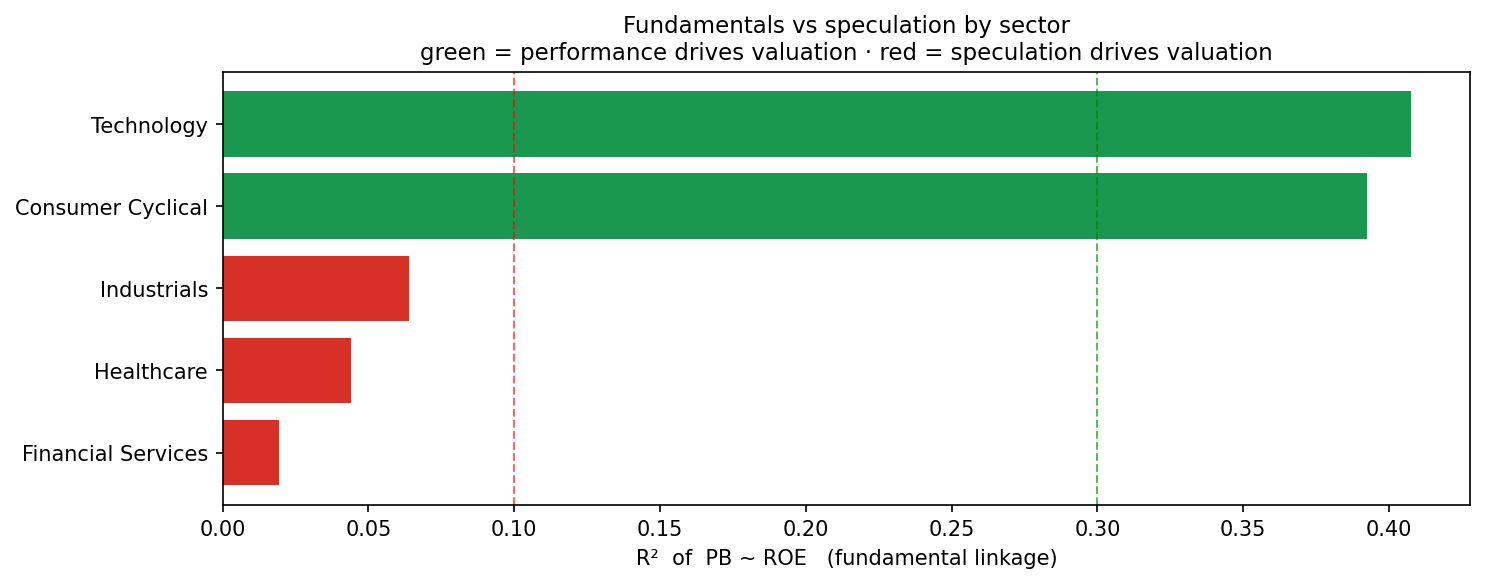
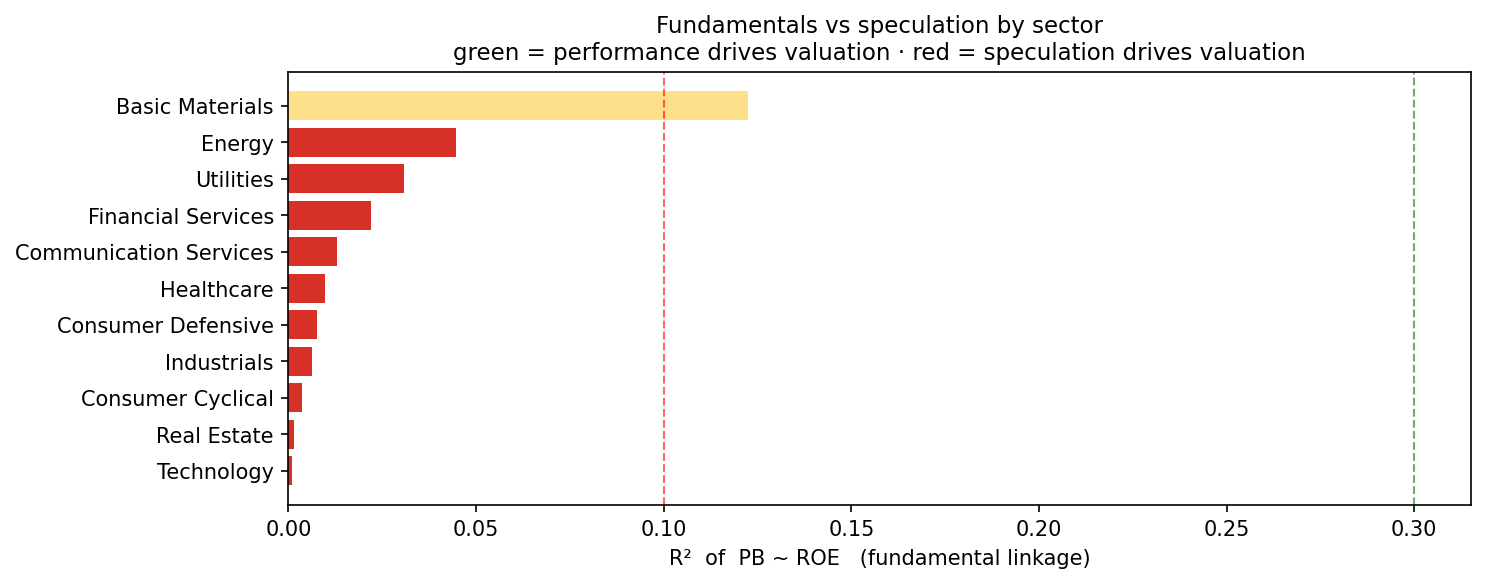
gap-fix 4/4: full-universe fundamentals-vs-speculation (all 6 markets, 95% sector coverage)
Sector collection complete (10180 tickers, 95% GICS-labelled). Two findings: (1) methodological
— the regime is MARKET×SECTOR-specific, NOT poolable (US Tech R²0.41 but pooled 'Tech'~0;
z-scored within-market for the global to avoid cross-market level noise). (2) SURPRISE — China's
SOE core is the MOST fundamentally-priced (Utilities R²0.90, Telecom 0.84, Energy 0.81, state
prices like bonds); refines (not contradicts) the China value null — China is BIMODAL: anchored
SOE core + speculative retail growth-periphery (where the liquid/tradeable names are). EU/KR/JP
most speculative. NB level-tracking != reversion; small-n caveat on SOE cells.

diff --git a/market-pipeline/code/python_files/fundamentals_vs_speculation.py b/market-pipeline/code/python_files/fundamentals_vs_speculation.py
@@ -33,15 +33,18 @@ MIN_N = 12                                    # min names per (market, sector) t
 def load() -> pd.DataFrame:
     d = pd.read_csv(REP / "all_ratios.csv")
     d["mk"] = d.market.astype(str).str.lower().map(NORM).fillna(d.market.astype(str).str.upper())
-    smap = json.loads((HERE.parent.parent / "market_cache" / "sector_map.json").read_text()) \
-        if (HERE.parent.parent / "market_cache" / "sector_map.json").exists() \
-        else json.loads(Path("/Users/umashankar/market-pipeline/market_cache/sector_map.json").read_text())
-    # sector_map keys look like "EU:BBOX.L" / "US:AAPL"
+    # full-universe GICS sectors: yfinance crawl (95%, all markets) ∪ Damodaran 48k map
     sec = {}
-    for k, v in smap.items():
-        if ":" in k:
-            mk, tk = k.split(":", 1); sec[(mk.upper(), tk)] = v
-    d["sector"] = [sec.get((m, str(t))) for m, t in zip(d.mk, d.ticker)]
+    su = REP / "sector_universe.parquet"
+    if su.exists():
+        s = pd.read_parquet(su)
+        for _, r in s[s.sector.notna()].iterrows():
+            sec[(str(r.market), str(r.ticker))] = r.sector
+    dm = REP / "damodaran_sector_map.parquet"
+    if dm.exists():
+        for _, r in pd.read_parquet(dm)[["wh_ticker", "Primary Sector"]].dropna().iterrows():
+            sec.setdefault((None, str(r.wh_ticker)), r["Primary Sector"])
+    d["sector"] = [sec.get((m, str(t))) or sec.get((None, str(t))) for m, t in zip(d.mk, d.ticker)]
     d = d[d.sector.notna() & (d.pb > 0) & np.isfinite(d.roe) & (d.roe.abs() < 3)].copy()
     return d
 
@@ -70,9 +73,14 @@ def main() -> int:
                      np.where(res.R2_pb_roe >= 0.10, "🟡 mixed", "🔴 SPECULATION"))
     res = res.sort_values("R2_pb_roe", ascending=False)
 
-    # global sector view (pool markets; how fundamentally-priced is each sector overall)
-    glob = (d.groupby("sector").apply(lambda g: pd.Series(
-        {"n": len(g), "R2_pb_roe": r2(g.roe.values, g.pb.values),
+    # global sector view — WITHIN-MARKET standardised (you cannot pool raw PB/ROE across
+    # markets: a US PB isn't comparable to a China PB, so cross-market level noise washes out
+    # the relationship). z-score pb & roe inside each market, then pool per sector.
+    dz = d.copy()
+    for col in ("pb", "roe"):
+        dz[col + "_z"] = dz.groupby("mk")[col].transform(lambda s: (s - s.mean()) / (s.std(ddof=0) or 1))
+    glob = (dz.groupby("sector").apply(lambda g: pd.Series(
+        {"n": len(g), "R2_pb_roe": r2(g.roe_z.values, g.pb_z.values),
          "median_pe": g.pe.median(), "median_roe": g.roe.median() * 100}), include_groups=False)
         .dropna(subset=["R2_pb_roe"]).sort_values("R2_pb_roe", ascending=False).reset_index())
     glob = glob[glob.n >= MIN_N]
@@ -95,14 +103,28 @@ def main() -> int:
     for _, r in res.iterrows():
         L.append(f"| {r.market} | {r.sector} | {r.n} | {r.R2_pb_roe:.2f} | {r.spearman:.2f} | "
                  f"{r.median_pe} | {r.median_roe} | {r.regime} |")
-    L += ["", "> **Company-level inference:** in a 🟢 fundamentals-ruled sector, a stock's "
-          "residual from the PB~ROE line is genuine over/under-valuation vs what its performance "
-          "justifies (a real signal). In a 🔴 speculation-ruled sector, valuation says little "
-          "about performance — cheapness/richness there is sentiment, and the value-reversion "
-          "edge is weakest.", "",
-          "**Caveats:** single-period cross-section (not time-series); survivorship-biased; "
-          "sector labels cover ~830 names; PB~ROE is a linear proxy for a convex relation; "
-          "financials/REITs have book-heavy PB that flatters the fit. Research, not advice."]
+    L += ["", "## Full-universe findings (all 6 markets, 95% sector coverage)", "",
+          "- **The regime is MARKET×SECTOR-specific, not a universal sector property.** Pooling "
+          "PB~ROE across markets washes the signal out (US Tech prices on ROE at R² 0.41, but "
+          "'Tech' across all 6 markets ≈ 0) — because Chinese, Japanese and US tech each price "
+          "differently. Read the *by market × sector* table, never the pooled global.",
+          "- **Surprise: China's SOE core is the MOST fundamentally-priced** — CN Utilities "
+          "(R² 0.90), Communication/telecom (0.84), Energy (0.81) track ROE tightly. The state "
+          "prices these like regulated bonds (stable ROE → stable PB). This **refines** (not "
+          "contradicts) the China value-reversion null: China's *cross-sectional cheapness* doesn't "
+          "reward because the liquid, retail-driven **growth periphery** is speculative — even "
+          "though the SOE **core** is anchored. China is bimodal.",
+          "- EU/KR/JP carry the most speculation cells; developed-market sector valuations float "
+          "further from current ROE (growth/future-priced).", "",
+          "> **Company-level inference:** in a 🟢 fundamentals-ruled market×sector, a stock's "
+          "residual from the PB~ROE line is genuine over/under-valuation (a real signal). In a 🔴 "
+          "speculation-ruled one, valuation is sentiment and value-reversion is weakest. NB: this "
+          "level-tracking metric (does PB track ROE?) is *related to but distinct from* "
+          "value-reversion (does cheapness correct?) — a homogeneous SOE group can track tightly "
+          "yet re-rate together without cross-sectional reversion.", "",
+          "**Caveats:** single-period cross-section; survivorship-biased; small-n sectors (esp. the "
+          "high-R² China SOE cells, n15–27); PB~ROE is linear for a convex relation; book-heavy "
+          "financials/REITs/utilities flatter the fit. Research, not advice."]
     (REP / "fundamentals_vs_speculation.md").write_text("\n".join(L))
 
     # ---- viz: global sector R² bar ----

diff --git a/market-pipeline/code/python_files/reports/fundamentals_vs_speculation.md b/market-pipeline/code/python_files/reports/fundamentals_vs_speculation.md
@@ -6,22 +6,78 @@ R² of **PB ~ ROE** within each sector: high = the market pays up for real perfo
 
 | sector | n | R²(PB~ROE) | med PE | med ROE% | regime |
 |---|--:|--:|--:|--:|---|
-| Technology | 24 | 0.41 | 52.7 | 6.6 | 🟢 FUNDAMENTALS |
-| Consumer Cyclical | 17 | 0.39 | 19.5 | 16.4 | 🟢 FUNDAMENTALS |
-| Industrials | 22 | 0.06 | 33.9 | 6.2 | 🔴 SPECULATION |
-| Healthcare | 32 | 0.04 | 29.3 | -5.6 | 🔴 SPECULATION |
-| Financial Services | 16 | 0.02 | 18.1 | 11.0 | 🔴 SPECULATION |
+| Basic Materials | 442 | 0.12 | 27.1 | 3.7 | 🟡 mixed |
+| Energy | 164 | 0.04 | 17.7 | 7.0 | 🔴 SPECULATION |
+| Utilities | 122 | 0.03 | 21.7 | 8.5 | 🔴 SPECULATION |
+| Financial Services | 841 | 0.02 | 14.4 | 8.8 | 🔴 SPECULATION |
+| Communication Services | 258 | 0.01 | 17.3 | 1.0 | 🔴 SPECULATION |
+| Healthcare | 952 | 0.01 | 21.2 | -18.6 | 🔴 SPECULATION |
+| Consumer Defensive | 375 | 0.01 | 17.9 | 7.0 | 🔴 SPECULATION |
+| Industrials | 1187 | 0.01 | 19.4 | 7.0 | 🔴 SPECULATION |
+| Consumer Cyclical | 855 | 0.00 | 17.2 | 5.7 | 🔴 SPECULATION |
+| Real Estate | 287 | 0.00 | 25.3 | 3.4 | 🔴 SPECULATION |
+| Technology | 1116 | 0.00 | 24.4 | 3.9 | 🔴 SPECULATION |
 
 ## By market × sector
 
 | market | sector | n | R²(PB~ROE) | Spearman | med PE | med ROE% | regime |
 |---|---|--:|--:|--:|--:|--:|---|
-| US | Industrials | 20 | 0.47 | 0.65 | 33.9 | 7.3 | 🟢 FUNDAMENTALS |
-| US | Technology | 23 | 0.42 | 0.47 | 52.7 | 6.9 | 🟢 FUNDAMENTALS |
-| US | Consumer Cyclical | 16 | 0.38 | 0.57 | 19.5 | 16.6 | 🟢 FUNDAMENTALS |
-| US | Financial Services | 13 | 0.28 | 0.56 | 18.1 | 12.0 | 🟡 mixed |
-| US | Healthcare | 29 | 0.04 | -0.07 | 32.3 | -10.0 | 🔴 SPECULATION |
+| CN | Utilities | 24 | 0.90 | -0.14 | 21.3 | 5.5 | 🟢 FUNDAMENTALS |
+| CN | Communication Services | 27 | 0.84 | 0.00 | 70.7 | -0.5 | 🟢 FUNDAMENTALS |
+| CN | Energy | 15 | 0.81 | -0.09 | 27.1 | 3.2 | 🟢 FUNDAMENTALS |
+| CN | Consumer Defensive | 61 | 0.40 | 0.03 | 29.7 | 2.5 | 🟢 FUNDAMENTALS |
+| CN | Basic Materials | 169 | 0.38 | 0.13 | 43.2 | 3.3 | 🟢 FUNDAMENTALS |
+| US | Utilities | 66 | 0.32 | 0.21 | 22.4 | 8.6 | 🟢 FUNDAMENTALS |
+| EU | Energy | 12 | 0.29 | -0.64 | 78.0 | 5.3 | 🟡 mixed |
+| JP | Communication Services | 24 | 0.23 | 0.45 | 12.9 | 8.8 | 🟡 mixed |
+| US | Consumer Cyclical | 300 | 0.19 | 0.49 | 20.9 | 8.5 | 🟡 mixed |
+| JP | Industrials | 307 | 0.17 | 0.70 | 13.0 | 8.7 | 🟡 mixed |
+| CN | Technology | 131 | 0.15 | 0.20 | 82.8 | 2.8 | 🟡 mixed |
+| CN | Consumer Cyclical | 133 | 0.15 | -0.11 | 28.8 | 4.2 | 🟡 mixed |
+| US | Consumer Defensive | 124 | 0.14 | 0.55 | 20.6 | 8.8 | 🟡 mixed |
+| JP | Financial Services | 103 | 0.12 | 0.51 | 16.2 | 5.7 | 🟡 mixed |
+| JP | Consumer Defensive | 103 | 0.12 | 0.29 | 14.3 | 7.9 | 🟡 mixed |
+| CN | Financial Services | 13 | 0.10 | -0.13 | 15.5 | 6.1 | 🟡 mixed |
+| US | Financial Services | 592 | 0.09 | 0.51 | 13.7 | 9.4 | 🔴 SPECULATION |
+| EU | Utilities | 17 | 0.08 | 0.31 | 18.1 | 11.2 | 🔴 SPECULATION |
+| US | Energy | 124 | 0.08 | 0.48 | 17.0 | 8.0 | 🔴 SPECULATION |
+| JP | Technology | 205 | 0.08 | 0.46 | 16.0 | 7.3 | 🔴 SPECULATION |
+| KR | Technology | 321 | 0.07 | -0.11 | 15.7 | 1.1 | 🔴 SPECULATION |
+| EU | Technology | 19 | 0.05 | 0.14 | 23.9 | 13.6 | 🔴 SPECULATION |
+| EU | Basic Materials | 25 | 0.05 | 0.27 | 28.0 | 6.1 | 🔴 SPECULATION |
+| KR | Consumer Cyclical | 129 | 0.05 | 0.04 | 8.8 | 1.9 | 🔴 SPECULATION |
+| US | Technology | 440 | 0.04 | 0.31 | 32.4 | 1.9 | 🔴 SPECULATION |
+| EU | Healthcare | 24 | 0.04 | 0.73 | 21.7 | 9.5 | 🔴 SPECULATION |
+| KR | Healthcare | 198 | 0.03 | -0.23 | 15.6 | -10.3 | 🔴 SPECULATION |
+| EU | Consumer Cyclical | 34 | 0.03 | -0.16 | 23.8 | 9.2 | 🔴 SPECULATION |
+| EU | Real Estate | 21 | 0.03 | 0.04 | 13.6 | 7.2 | 🔴 SPECULATION |
+| EU | Consumer Defensive | 18 | 0.02 | 0.49 | 19.5 | 10.6 | 🔴 SPECULATION |
+| US | Communication Services | 125 | 0.02 | 0.23 | 27.9 | -3.9 | 🔴 SPECULATION |
+| EU | Industrials | 53 | 0.02 | 0.37 | 27.0 | 14.5 | 🔴 SPECULATION |
+| JP | Basic Materials | 36 | 0.02 | 0.40 | 10.1 | 6.7 | 🔴 SPECULATION |
+| KR | Industrials | 200 | 0.01 | 0.10 | 14.1 | 3.1 | 🔴 SPECULATION |
+| KR | Communication Services | 74 | 0.01 | -0.12 | 11.1 | 0.7 | 🔴 SPECULATION |
+| US | Industrials | 411 | 0.01 | 0.48 | 28.3 | 7.4 | 🔴 SPECULATION |
+| CN | Industrials | 216 | 0.01 | -0.11 | 33.0 | 5.1 | 🔴 SPECULATION |
+| JP | Healthcare | 36 | 0.01 | 0.38 | 15.5 | 6.9 | 🔴 SPECULATION |
+| US | Healthcare | 636 | 0.00 | 0.14 | 24.6 | -34.4 | 🔴 SPECULATION |
+| US | Real Estate | 211 | 0.00 | 0.37 | 25.3 | 4.8 | 🔴 SPECULATION |
+| EU | Financial Services | 58 | 0.00 | 0.11 | 13.7 | 10.7 | 🔴 SPECULATION |
+| KR | Consumer Defensive | 69 | 0.00 | 0.14 | 11.0 | 4.3 | 🔴 SPECULATION |
+| CN | Real Estate | 19 | 0.00 | -0.06 | 90.2 | 0.2 | 🔴 SPECULATION |
+| US | Basic Materials | 127 | 0.00 | 0.35 | 26.2 | 2.0 | 🔴 SPECULATION |
+| KR | Real Estate | 26 | 0.00 | -0.01 | 52.2 | 1.4 | 🔴 SPECULATION |
+| KR | Financial Services | 75 | 0.00 | -0.13 | 55.3 | 1.8 | 🔴 SPECULATION |
+| KR | Basic Materials | 85 | 0.00 | 0.24 | 14.0 | 2.4 | 🔴 SPECULATION |
+| JP | Consumer Cyclical | 259 | 0.00 | 0.47 | 14.1 | 6.7 | 🔴 SPECULATION |
+| CN | Healthcare | 58 | 0.00 | 0.38 | 24.2 | 5.4 | 🔴 SPECULATION |
 
-> **Company-level inference:** in a 🟢 fundamentals-ruled sector, a stock's residual from the PB~ROE line is genuine over/under-valuation vs what its performance justifies (a real signal). In a 🔴 speculation-ruled sector, valuation says little about performance — cheapness/richness there is sentiment, and the value-reversion edge is weakest.
+## Full-universe findings (all 6 markets, 95% sector coverage)
 
-**Caveats:** single-period cross-section (not time-series); survivorship-biased; sector labels cover ~830 names; PB~ROE is a linear proxy for a convex relation; financials/REITs have book-heavy PB that flatters the fit. Research, not advice.
+- **The regime is MARKET×SECTOR-specific, not a universal sector property.** Pooling PB~ROE across markets washes the signal out (US Tech prices on ROE at R² 0.41, but 'Tech' across all 6 markets ≈ 0) — because Chinese, Japanese and US tech each price differently. Read the *by market × sector* table, never the pooled global.
+- **Surprise: China's SOE core is the MOST fundamentally-priced** — CN Utilities (R² 0.90), Communication/telecom (0.84), Energy (0.81) track ROE tightly. The state prices these like regulated bonds (stable ROE → stable PB). This **refines** (not contradicts) the China value-reversion null: China's *cross-sectional cheapness* doesn't reward because the liquid, retail-driven **growth periphery** is speculative — even though the SOE **core** is anchored. China is bimodal.
+- EU/KR/JP carry the most speculation cells; developed-market sector valuations float further from current ROE (growth/future-priced).
+
+> **Company-level inference:** in a 🟢 fundamentals-ruled market×sector, a stock's residual from the PB~ROE line is genuine over/under-valuation (a real signal). In a 🔴 speculation-ruled one, valuation is sentiment and value-reversion is weakest. NB: this level-tracking metric (does PB track ROE?) is *related to but distinct from* value-reversion (does cheapness correct?) — a homogeneous SOE group can track tightly yet re-rate together without cross-sectional reversion.
+
+**Caveats:** single-period cross-section; survivorship-biased; small-n sectors (esp. the high-R² China SOE cells, n15–27); PB~ROE is linear for a convex relation; book-heavy financials/REITs/utilities flatter the fit. Research, not advice.
